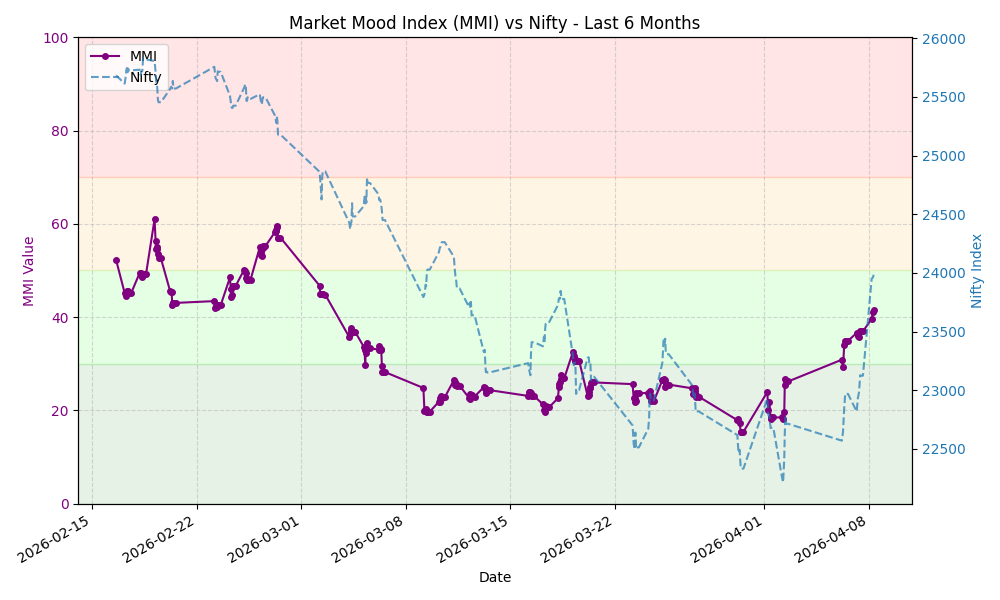
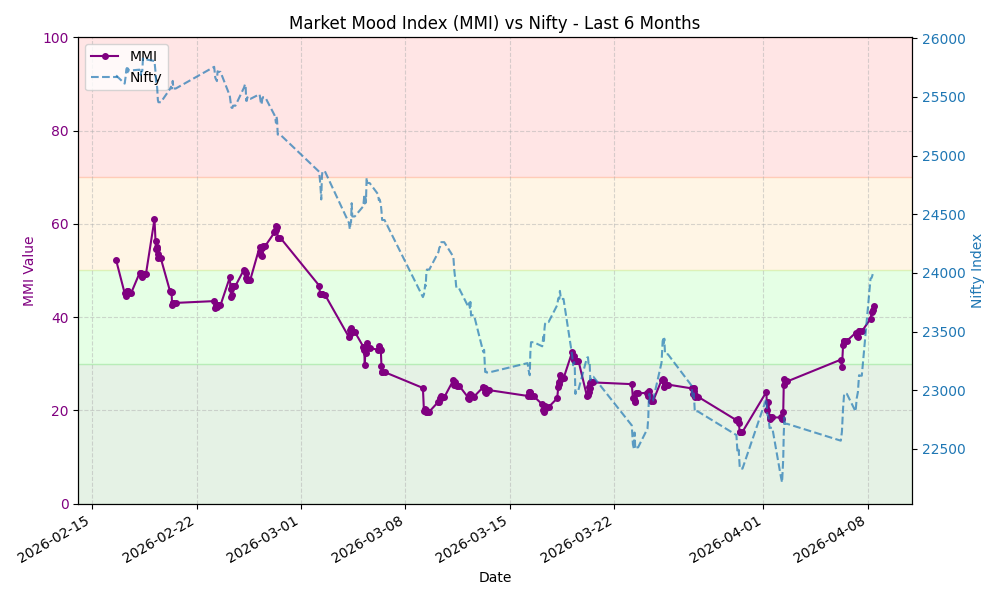
Update MMI data and chart

diff --git a/README.md b/README.md
@@ -7,8 +7,8 @@ This repository automatically fetches the MMI value, stores the history, and gen
 
 ## Latest MMI Value
 
-**41.44** - **Fear**
-<small>Last Updated: 2026-04-08 08:03 UTC</small>
+**42.28** - **Fear**
+<small>Last Updated: 2026-04-08 09:54 UTC</small>
 
 ## MMI Trend (Last 30 Days)
 
